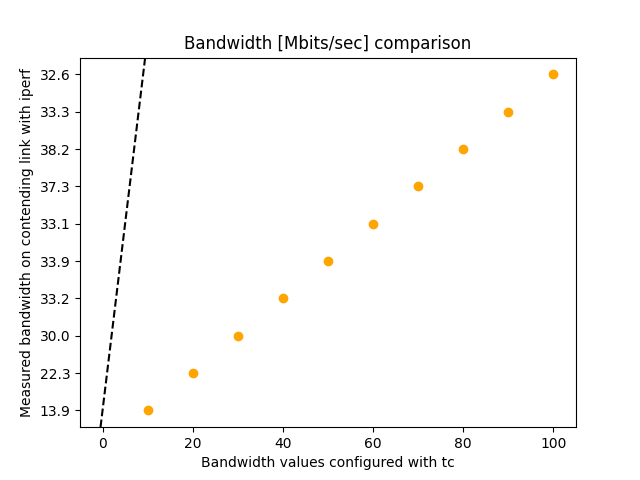
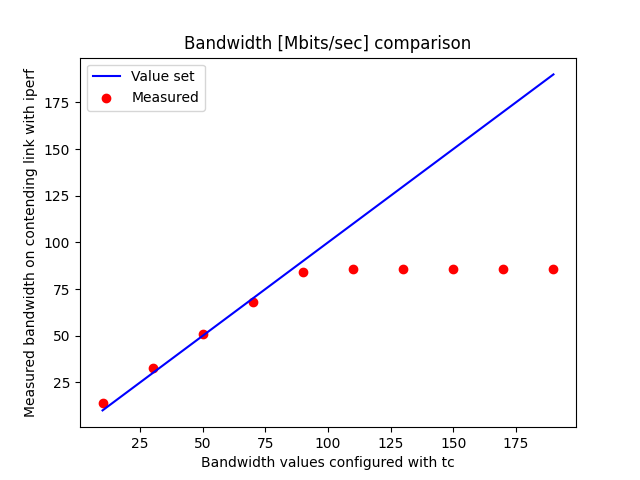
Right and final answers.

diff --git a/src/topology_config.py b/src/topology_config.py
@@ -16,11 +16,11 @@ nodes = {"c1": ("10.0.1.2", "c1-r1"),
 Links Format:
 [(endpoint_name1, ip1, (endpoint_name2, ip2)), (bandwidth[Mbit/s], burst[kb], latency[ms])), ...]
 """
-links = [(("c1", "10.0.1.2"), ("r1", "10.0.1.4"), (100, 12500, 1)),
-         (("r2", "10.0.2.2"), ("r3", "10.0.2.4"), (100, 12500, 1)),
-         (("r4", "10.0.3.2"), ("r5", "10.0.3.4"), (100, 12500, 1)),
-         (("r6", "10.0.4.2"), ("s1", "10.0.4.4"), (100, 12500, 1)),
-         (("c2", "10.0.5.2"), ("r4", "10.0.5.4"), (100, 12500, 1)),
-         (("r1", "10.0.6.2"), ("r2", "10.0.6.4"), (100, 12500, 1)),
-         (("r3", "10.0.7.2"), ("r4", "10.0.7.4"), (100, 12500, 1)),
-         (("r5", "10.0.8.2"), ("r6", "10.0.8.4"), (100, 12500, 1))]
+links = [(("c1", "10.0.1.2"), ("r1", "10.0.1.4"), (200, 12500, 1)),
+         (("r2", "10.0.2.2"), ("r3", "10.0.2.4"), (200, 12500, 1)),
+         (("r4", "10.0.3.2"), ("r5", "10.0.3.4"), (200, 12500, 1)),
+         (("r6", "10.0.4.2"), ("s1", "10.0.4.4"), (200, 12500, 1)),
+         (("c2", "10.0.5.2"), ("r4", "10.0.5.4"), (200, 12500, 1)),
+         (("r1", "10.0.6.2"), ("r2", "10.0.6.4"), (200, 12500, 1)),
+         (("r3", "10.0.7.2"), ("r4", "10.0.7.4"), (200, 12500, 1)),
+         (("r5", "10.0.8.2"), ("r6", "10.0.8.4"), (200, 12500, 1))]

diff --git a/src/experiment.py b/src/experiment.py
@@ -22,7 +22,7 @@ burst_const = 12500
 n_iter = 20
 bottleneck_bandwidth = []
 data = {'00': [], '01': [], '02': [], '03': [], '04': [], '05': []}
-bottlneck_bw_values = list(np.arange(10, 101, 10))
+bottlneck_bw_values = [float(x) for x in range(10, 201, 20)]
 print(bottlneck_bw_values)
 
 os.system(f"docker exec {contesting_client} pkill iperf")
@@ -59,10 +59,13 @@ for i in range(len(bottlneck_bw_values)):
 	time.sleep(2)
 	
 # plot bandwidth test results
-plt.scatter(bottlneck_bw_values, bandwidth_est, c='orange')
+bandwidth_est = [float(x) for x in bandwidth_est]
+plt.plot(bottlneck_bw_values, bottlneck_bw_values, c='blue', label = 'Value set')
+plt.scatter(bottlneck_bw_values, bandwidth_est, c='red', label = 'Measured')
 plt.xlabel('Bandwidth values configured with tc')
 plt.ylabel('Measured bandwidth on contending link with iperf')
 plt.title(f'Bandwidth [Mbits/sec] comparison')
+plt.legend()
 plt.savefig('iperf-bandwidth-measurements')
 plt.show()
 
